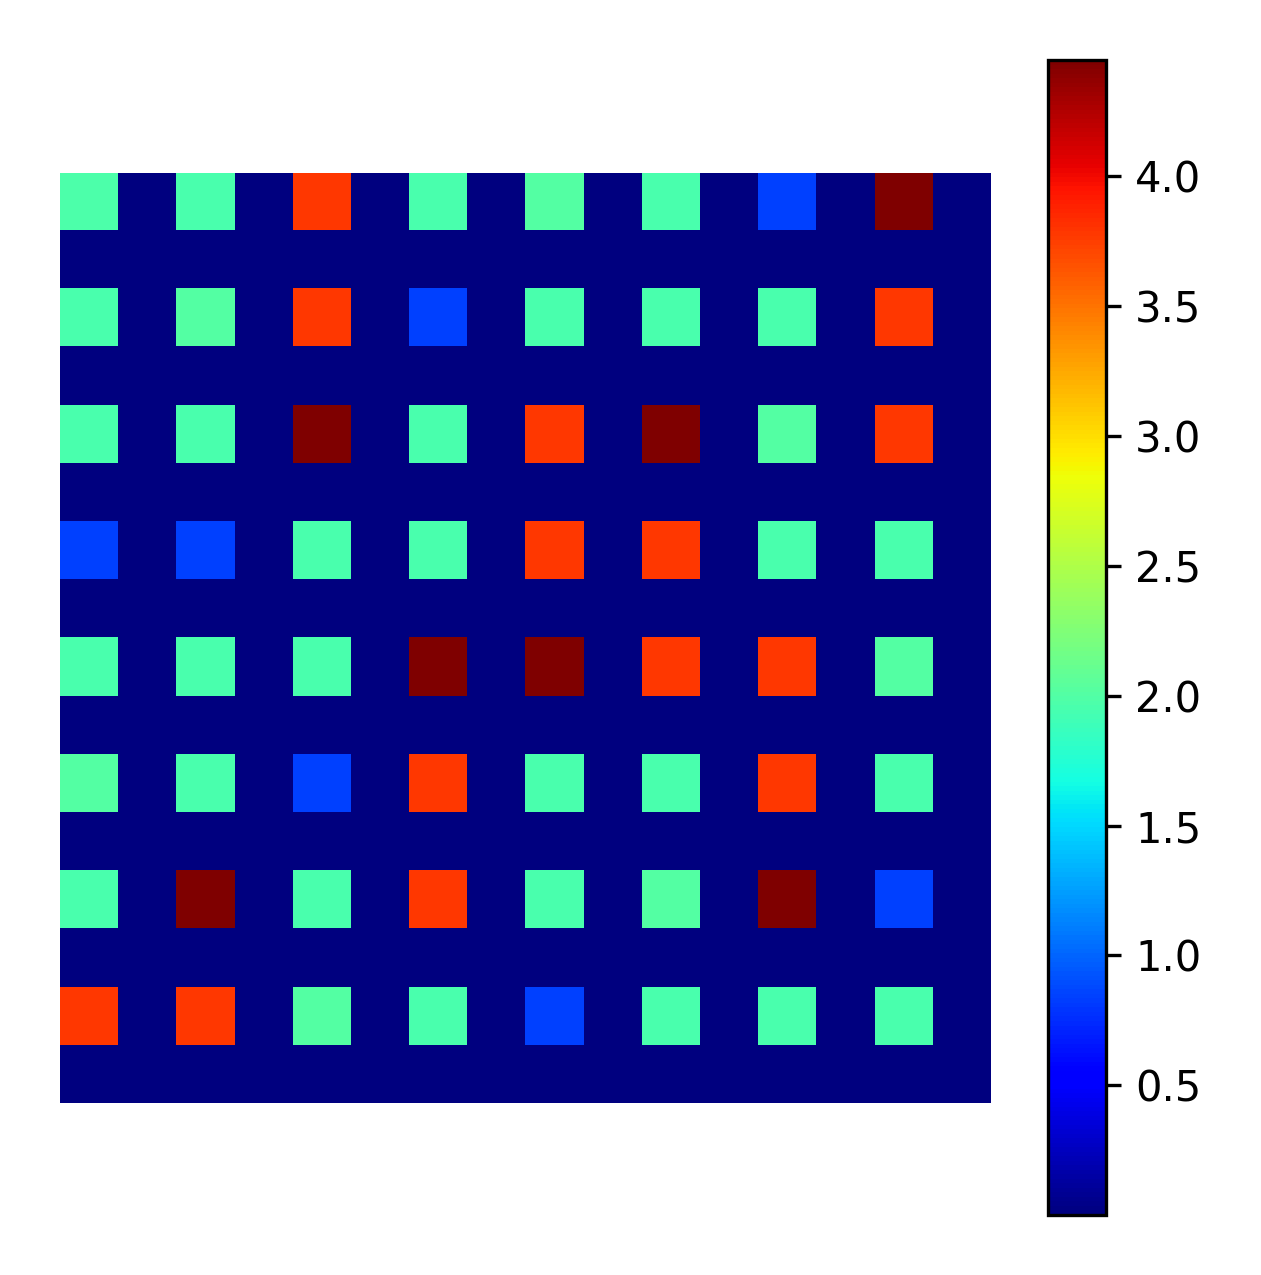
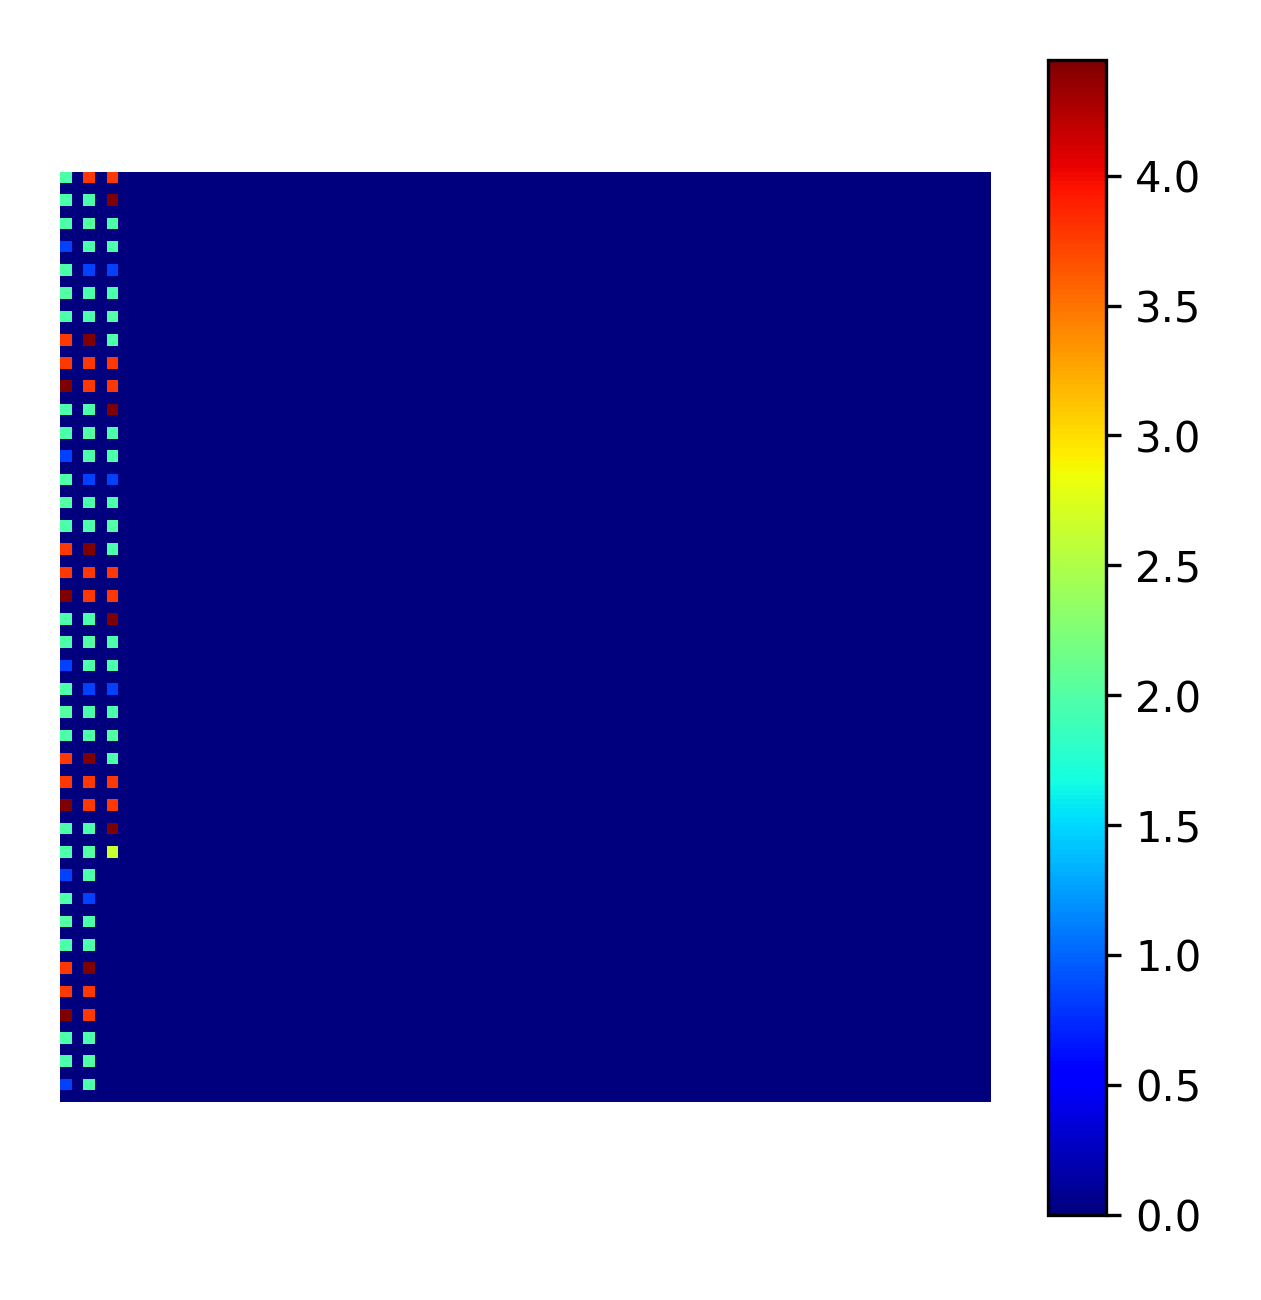
my_version

diff --git a/main.py b/main.py
@@ -47,7 +47,7 @@ def parse_args():
     parser.add_argument('--tsvPitch', type=float, default=10, help='TSV pitch um')
     parser.add_argument('--W2d', type=int, default=32, help='Number of links of 2D NoC')
     parser.add_argument('--voltage', type=float, default=0.5, help='Operating Voltage in voltage')
-    parser.add_argument('--placement_method', type=int, default=5, help='computing tile placement method')
+    parser.add_argument('--placement_method', type=int, default=2, help='computing tile placement method')
     parser.add_argument('--routing_method', type=int, default=2, help='3D routing method')
     parser.add_argument('--percent_router', type=float, default=0.5, help='when data route from one tier to next tier, the system will choose how much percent routers for 3D communication')
     parser.add_argument('--router_times_scale', type=int, default=1, help='Scaling factor for time components of router: trc, tva, tsa, tst,tl, tenq')

diff --git a/Module_Thermal/util.py b/Module_Thermal/util.py
@@ -515,7 +515,7 @@ def solver(cube_G_dict, cube_n_dict, cube_power_dict, cube_layertype_dict, xdim,
                 break
         t = t[devicestart:deviceend, :, :]
         namemap = namemap[devicestart:deviceend, :, :]
-        realratiot = convert2realratio(t, namemap, xdim) #TODO: needed?
+        realratiot = convert2realratio(t, namemap, xdim) # TODO: needed?
 
         vmin  = t.min()
         vmax  = t.max()
